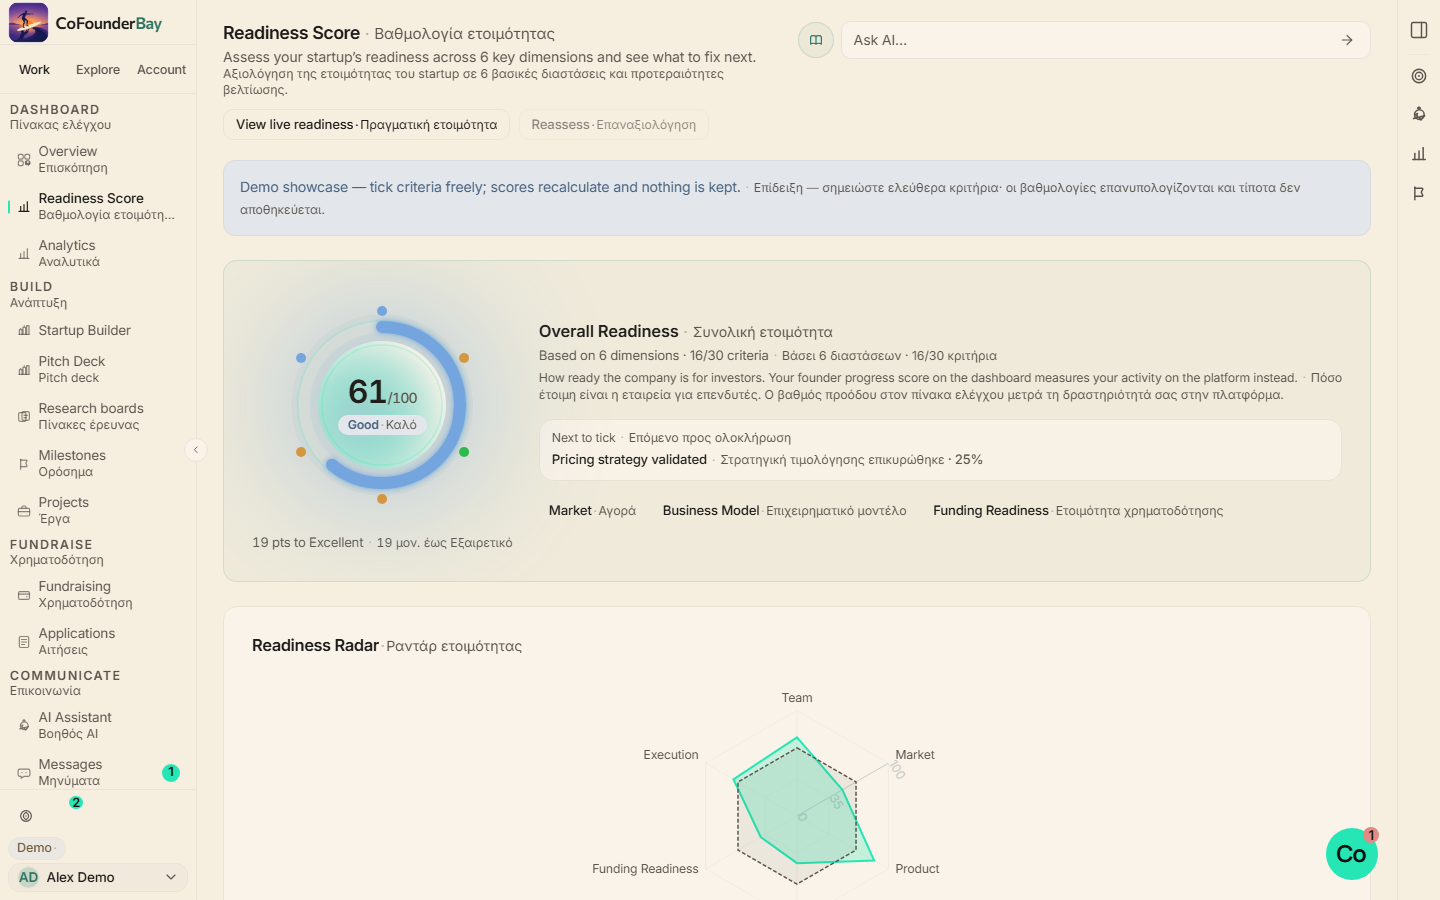
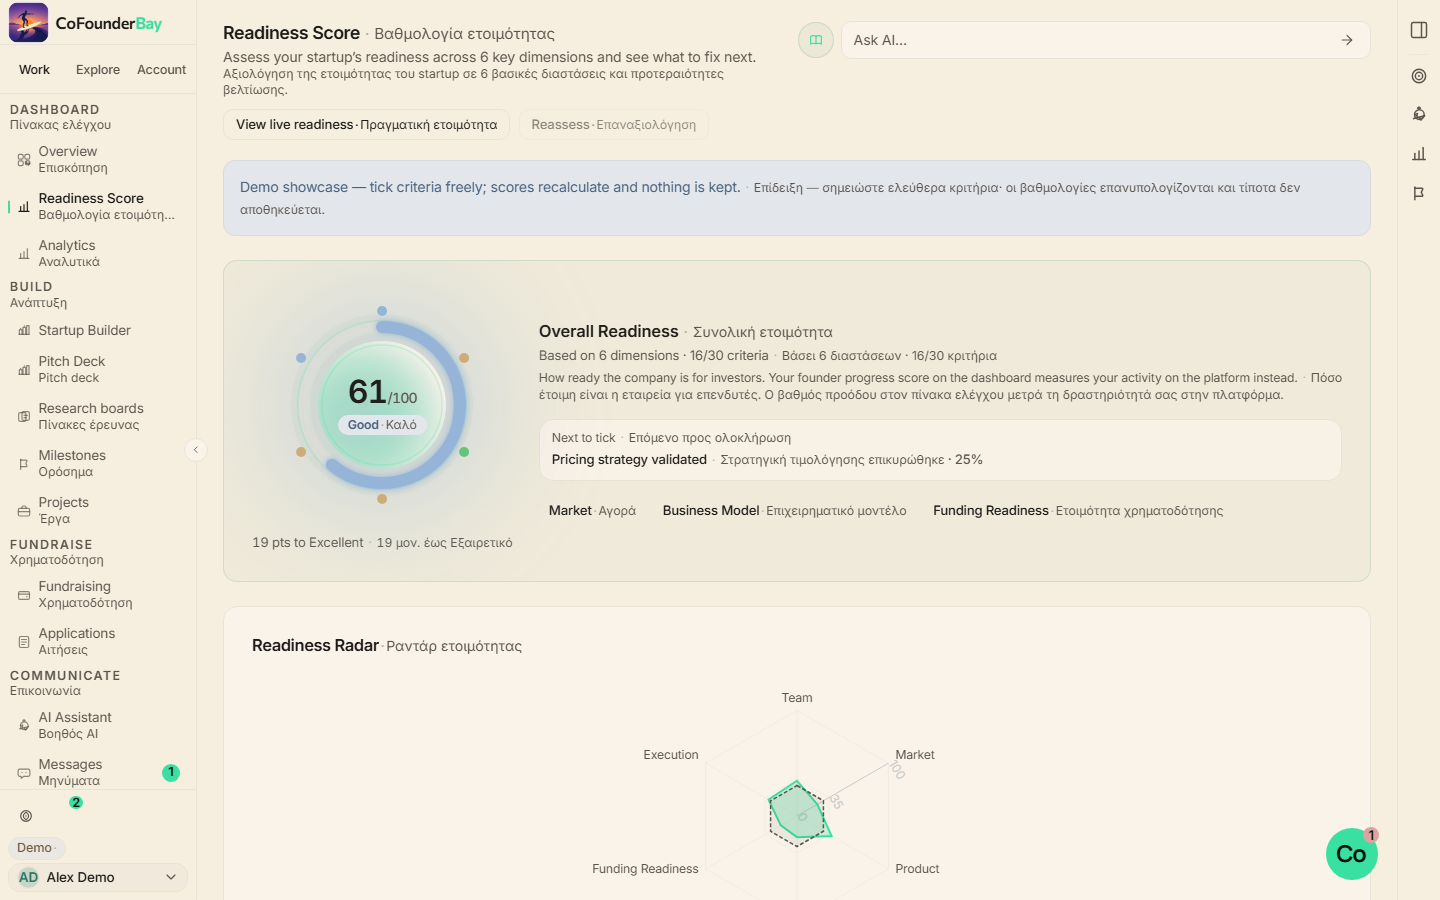
fix(design): mint accent nudged a touch golden-pastel
Generated with [Devin](https://devin.ai)

diff --git a/apps/web/src/app/globals.css b/apps/web/src/app/globals.css
@@ -433,7 +433,7 @@ html {
     --ring: 212 39.3% 45.5%;
   }
   html[data-theme="minimal"] {
-    --primary: 165 79.6% 52.7%;           /* Windsurf "Download" #34e8bb, a touch deeper */
+    --primary: 158 72% 55%;               /* #34e8bb nudged a touch golden-pastel */
     --primary-foreground: 168 18.5% 5.3%; /* its label, #0b100f */
     --primary-mid: 165 49.4% 34.25%;          /* tints only (/5../40) */
     --primary-accessible: 165 43.8% 31.5%;
